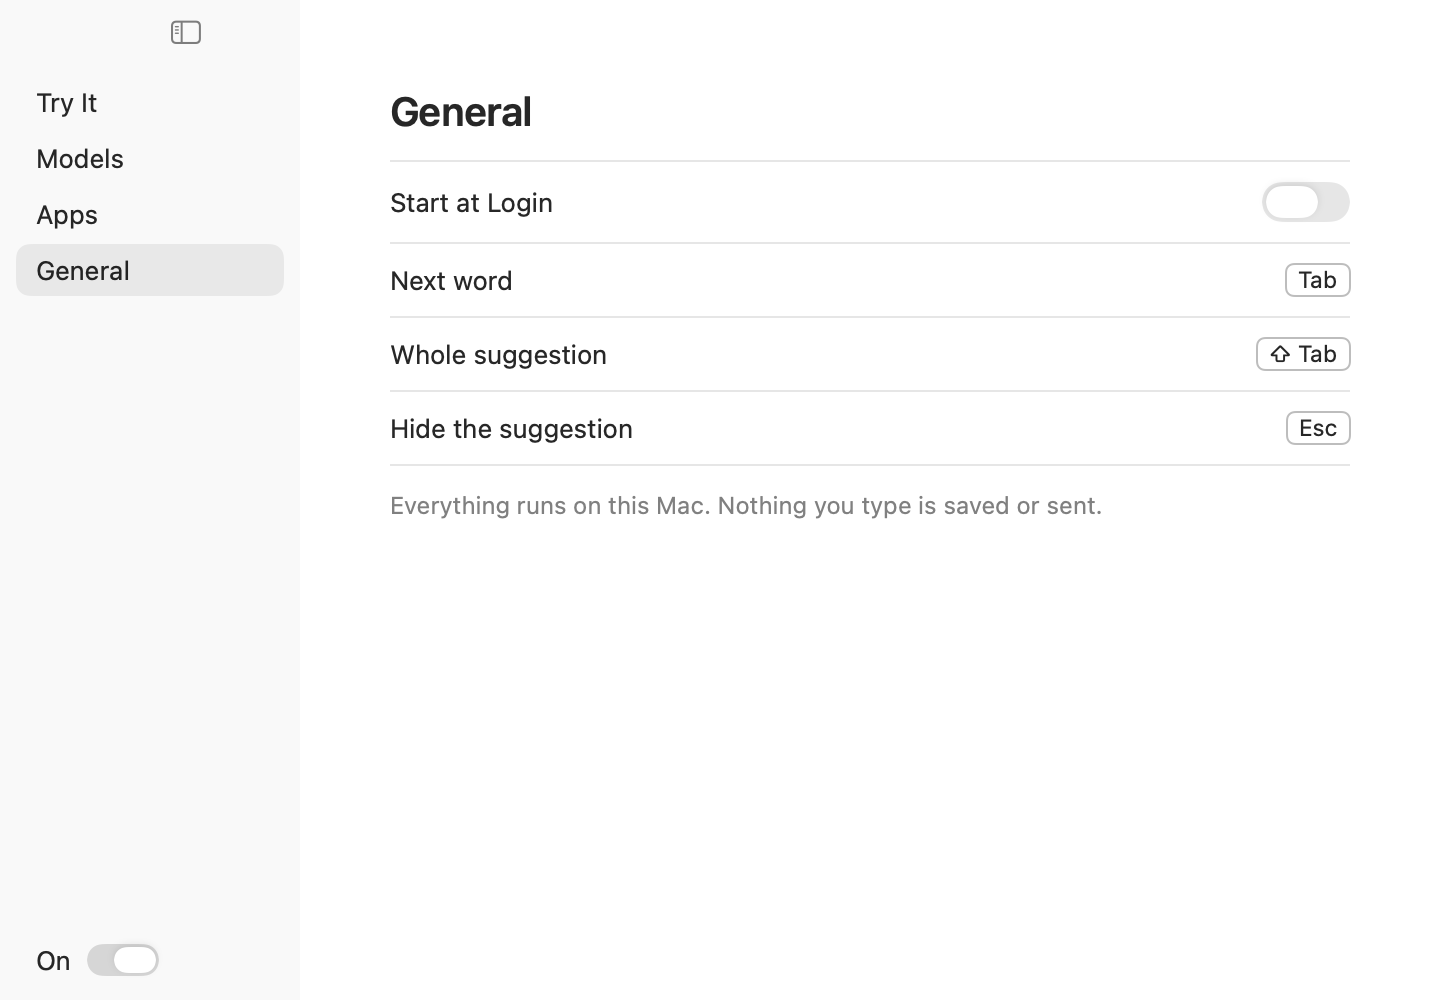
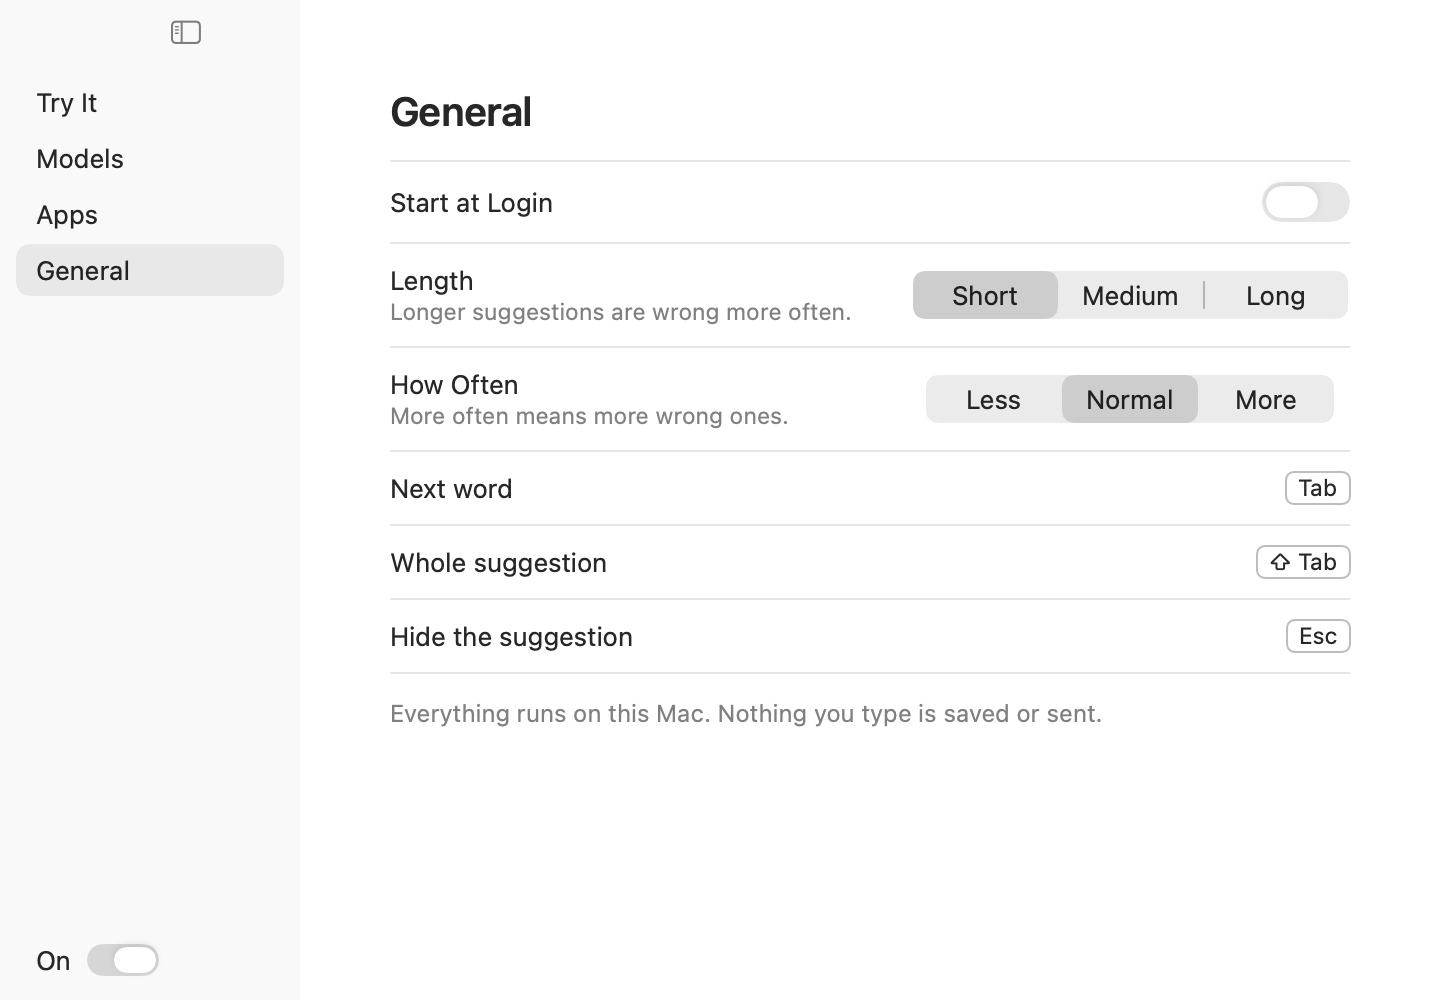
Settings: Length and How Often
Two pickers under General move Stop.cut's floor (-1, -2, -3) and the gate threshold (-0.3, -0.7, -1.2).
Defaults are the fitted values. A change clears any suggestion asked for or shown under the old one
(Codex review). Replay trade-offs in docs/measuring.md.

diff --git a/Sources/ItdaApp/App.swift b/Sources/ItdaApp/App.swift
@@ -1,5 +1,6 @@
 import AppKit
 import Carbon
+import ItdaCore
 import ItdaEngine
 import Sparkle
 
@@ -57,6 +58,16 @@ final class App: NSObject, NSApplicationDelegate, NSMenuDelegate, NSWindowDelega
             rebind()
         }
     }
+    @Published var length = Length(rawValue: UserDefaults.standard.string(forKey: "length") ?? "") ?? .short {
+        didSet { UserDefaults.standard.set(length.rawValue, forKey: "length"); tune() }
+    }
+    @Published var often = Often(rawValue: UserDefaults.standard.string(forKey: "often") ?? "") ?? .normal {
+        didSet { UserDefaults.standard.set(often.rawValue, forKey: "often"); tune() }
+    }
+    func tune() {
+        Tuning.current.withLock { $0 = Tuning(floor: length.floor, threshold: often.threshold) }
+        watcher.retune()
+    }
     @Published var pausedApps = Set(UserDefaults.standard.stringArray(forKey: "pausedApps") ?? []) {
         didSet {
             UserDefaults.standard.set(Array(pausedApps), forKey: "pausedApps")
@@ -86,6 +97,7 @@ final class App: NSObject, NSApplicationDelegate, NSMenuDelegate, NSWindowDelega
     var activeName: String { activePath.map(name) ?? "No Model" }
 
     func applicationDidFinishLaunching(_ note: Notification) {
+        tune()
         // The symbol is for a binary run outside the bundle, as the e2e checks do.
         let glyph = Bundle.main.image(forResource: "MenuBarTemplate") ?? NSImage(systemSymbolName: "text.cursor", accessibilityDescription: "Itda")
         glyph?.isTemplate = true
@@ -291,3 +303,16 @@ final class App: NSObject, NSApplicationDelegate, NSMenuDelegate, NSWindowDelega
     }
 
 }
+
+/// Replayed on English test threads with Qwen 3.5 0.8B (docs/measuring.md): grey characters right 77%, 61%, 50%.
+enum Length: String, CaseIterable {
+    case short, medium, long
+    var floor: Double { switch self { case .short: Stop.floor; case .medium: -2; case .long: -3 } }
+}
+
+/// The same replay: suggestions shown on 12%, 20% and 31% of requests, with the first word right 89%, 75% and 58% of the time.
+enum Often: String, CaseIterable {
+    case less, normal, more
+    var threshold: Double { switch self { case .less: -0.3; case .normal: Gate.threshold; case .more: -1.2 } }
+}
+

diff --git a/Sources/ItdaCore/Generation.swift b/Sources/ItdaCore/Generation.swift
@@ -1,3 +1,5 @@
+import Synchronization
+
 /// One decoded token as the engine reports it.
 public struct Token: Equatable, Sendable {
     public var bytes: [UInt8]
@@ -65,7 +67,7 @@ public enum Stop {
     /// The suggestion so far, and whether to stop generating. It ends before a newline, after the first terminal
     /// punctuation, at `maxTokens`, at a special token, or before the word that takes it below `floor`. The first word
     /// is the gate's to judge. Text with no word in it is no suggestion.
-    public static func cut(_ tokens: [Token], fragment: String) -> (text: String, done: Bool) {
+    public static func cut(_ tokens: [Token], fragment: String, floor: Double = Stop.floor) -> (text: String, done: Bool) {
         guard let free = tokens.continuation(after: fragment), let text = decode(Array(free.prefix(maxTokens))) else {
             return ("", true)
         }
@@ -96,6 +98,17 @@ public enum Stop {
     private static func endsClause(_ c: Character) -> Bool {
         c == "~" || c == "…" || c.unicodeScalars.first?.properties.isTerminalPunctuation == true
     }
+}
+
+/// The window's Length and How Often: a floor for `Stop.cut` and a threshold for the gate. Read once per request.
+/// The defaults are the fitted values; the others trade right grey text for more of it (docs/measuring.md).
+public struct Tuning: Sendable, Equatable {
+    public var floor: Double
+    public var threshold: Double
+    public init(floor: Double = Stop.floor, threshold: Double = Gate.threshold) {
+        (self.floor, self.threshold) = (floor, threshold)
+    }
+    public static let current = Mutex(Tuning())
 }
 
 public enum Gate {

diff --git a/Sources/ItdaEngine/Engine.swift b/Sources/ItdaEngine/Engine.swift
@@ -123,6 +123,7 @@ public final class Engine: @unchecked Sendable {
         if prompt.count > room { prompt.removeFirst(prompt.count - room) }
         guard !prompt.isEmpty, prefill(prompt, ctx, id) else { return isStale(id) ? () : onResult(nil) }
 
+        let tuning = Tuning.current.withLock { $0 }
         var need = Constraint(fragment: fragment, composing: composing)
         var suggestion = Suggestion(text: "", gate: nil)
         var shown = ""
@@ -133,12 +134,12 @@ public final class Engine: @unchecked Sendable {
             need.consume(piece)
             suggestion.tokens.append(Token(bytes: Array(piece), logprob: pick.logprob, special: pick.isEnd))
 
-            let cut = Stop.cut(suggestion.tokens, fragment: fragment)
+            let cut = Stop.cut(suggestion.tokens, fragment: fragment, floor: tuning.floor)
             let finished = cut.done || (!cut.text.isEmpty && Word.firstEnd(cut.text) != cut.text.endIndex)
             suggestion.text = cut.text
             suggestion.gate = finished ? Gate.firstWord(suggestion.tokens, fragment: fragment) : nil
             guard !isStale(id) else { return }
-            if cut.done || suggestion.gate.map({ $0 < Gate.threshold }) == true { return onResult(cut.text.isEmpty ? nil : suggestion) }
+            if cut.done || suggestion.gate.map({ $0 < tuning.threshold }) == true { return onResult(cut.text.isEmpty ? nil : suggestion) }
             if cut.text != shown { onResult(suggestion); shown = cut.text }
 
             var next = pick.token

diff --git a/Sources/ItdaApp/Window.swift b/Sources/ItdaApp/Window.swift
@@ -325,6 +325,14 @@ private struct GeneralPage: View {
                     Toggle("", isOn: $app.updatesAutomatically).toggleStyle(.switch).controlSize(.small).tint(.primary).labelsHidden()
                 }
             }
+            Row(title: "Length", note: "Longer suggestions are wrong more often.") {
+                Picker("", selection: $app.length) { Text("Short").tag(Length.short); Text("Medium").tag(Length.medium); Text("Long").tag(Length.long) }
+                    .pickerStyle(.segmented).labelsHidden().frame(width: 220)
+            }
+            Row(title: "How Often", note: "More often means more wrong ones.") {
+                Picker("", selection: $app.often) { Text("Less").tag(Often.less); Text("Normal").tag(Often.normal); Text("More").tag(Often.more) }
+                    .pickerStyle(.segmented).labelsHidden().frame(width: 220)
+            }
             Row(title: "Next word") { key("Tab") }
             Row(title: "Whole suggestion") { key("⇧ Tab") }
             Row(title: "Hide the suggestion") { key("Esc") }

diff --git a/Sources/ItdaApp/Watcher.swift b/Sources/ItdaApp/Watcher.swift
@@ -252,7 +252,7 @@ final class Watcher: @unchecked Sendable {
     }
 
     private func received(id: Int, anchor: String, text: String, gate: Double?) {
-        guard id == request, let gate, gate >= Gate.threshold, let last else { return }
+        guard id == request, let gate, gate >= Tuning.current.withLock({ $0.threshold }), let last else { return }
         suggestion = (anchor, text)
         // A field that has already moved on brings its own update.
         let field = settled(last.field)
@@ -280,6 +280,9 @@ final class Watcher: @unchecked Sendable {
             if tap.arm(armed, generation: generation) { showScrollWatch() } else { hideDisarmed() }
         }
     }
+
+    /// A setting changed: nothing asked for or kept under the old one may show.
+    func retune() { queue.async { [self] in clearSuggestion() } }
 
     private func clearSuggestion() {
         suggestion = nil

diff --git a/Tests/ItdaCoreTests/GenerationTests.swift b/Tests/ItdaCoreTests/GenerationTests.swift
@@ -108,6 +108,13 @@ func stop(c: StopCase) {
     #expect(cut.done)
 }
 
+@Test func aLowerFloorKeepsLessLikelyWords() {
+    let tokens = [token(" take", -0.2), token(" a", -0.1), token(" look", -0.3), token(" around", -0.5), token(" here", -0.1)]
+    #expect(Stop.cut(tokens, fragment: "", floor: -2).text == " take a look around here")
+    #expect(Stop.cut(tokens, fragment: "", floor: -1.15).text == " take a look around")
+    #expect(Tuning() == Tuning(floor: Stop.floor, threshold: Gate.threshold))
+}
+
 @Test func theFirstWordIsTheGatesToJudge() {
     #expect(Stop.cut([token(" maybe", -3)], fragment: "").text == " maybe")
     #expect(Stop.cut([token(" maybe", -3), token(" so", -0.1)], fragment: "").text == " maybe")

diff --git a/docs/measuring.md b/docs/measuring.md
@@ -115,3 +115,18 @@ November 2026, the same replay (`itda-replay` at tag `bench-1`, threshold -0.7) 
 - Qwen 3.5 0.8B ties Qwen 3.5 2B on English within the CI, at 41% of the size and with the quickest first word, so it's the default. What it gives up is Korean: own messages 0.60 against 0.88 keys per request (CI -0.52 to -0.10).
 - Qwen 3.5 0.8B against Kanana 1.5, the old default, in full: English test 922 of 1,131 shown right (81.5%), coverage 47.1%. Whole messages: English 21.6% against 22.1% (800 keys), Korean public 4.8% against 8.8% (1,200 keys), Korean own 10.8% against 13.4% (1,800 keys). Korean public suggestions on Hangul right when shown: 20.9% against 33.7%. First displayable word p50: 53, 97 and 102 ms against 60, 102 and 114 ms. No model call on 47%, 20% and 26% of keys against 48%, 27% and 28%.
 - Not tried: models of 3.5 GB or more, community fine-tunes, and Ternary Bonsai's smaller packings, which need a fork of llama.cpp. Gemma 4's tokenizer fix of 3 November 2026 changed no weights and came after these files.
+
+## Length and How Often
+
+The window's two settings move the two numbers above: Length the floor that ends a suggestion (-1, -2, -3), How Often the gate's threshold (-0.3, -0.7, -1.2). Defaults are Short and Normal, the fitted values. Offline replay, Qwen 3.5 0.8B, English test threads, 2,400 requests, Tab one word, the first word at least 3 keys (`reviews/audit-2026-11/quality-aggregates/length_freq.py` in the bench repo):
+
+| Setting | Shown, of requests | First word right | Wrong and shown, per request | Grey characters per ghost | Grey characters right | Characters saved per request |
+|---|---|---|---|---|---|---|
+| Short, Normal | 20.0% | 75.2% | 5.0% | 5.2 | 76.7% | 0.552 |
+| Medium, Normal | 20.0% | 75.2% | 5.0% | 7.1 | 61.4% | 0.580 |
+| Long, Normal | 20.0% | 75.2% | 5.0% | 9.2 | 49.8% | 0.585 |
+| Short, Less | 12.0% | 89.2% | 1.3% | 5.3 | 85.2% | 0.395 |
+| Short, More | 30.6% | 58.2% | 12.8% | 4.9 | 63.7% | 0.642 |
+
+Longer adds little, as Tab takes one word and more of the extra words are wrong. No floor at all gives 17 characters, 27% right, for the same savings as Long. Suggestions stop at 8 tokens whatever the setting. Not measured in timed replay or on Korean.
+

diff --git a/README.md b/README.md
@@ -43,7 +43,7 @@ Most tools in this category go quiet while you compose Hangul, or suggest from a
 
 **It won't guess at the half-typed word.** The prompt stops at the last whole word and the model has to reproduce what you've typed so far. Across 130 paired mid-word English positions on a Gemma model, a useful suggestion went from 7.7% to 50.8%. The shipped mask on the default model wasn't compared this way.
 
-**It stays quiet when the model isn't sure.** Itda shows a suggestion only if the first word's probability, among words that fit what you've typed, clears one threshold. On 2,400 held-out English requests with the default model, the first word shown was right 81.5% of the time (922 of 1,131), at 47.1% coverage. With no gate, 50-53% were right. It also ends a suggestion before the first word it's unsure of, and doesn't show one that would save under three keystrokes. In the same replay on Kanana 1.5, that took the grey characters that were right from 19% to 75%.
+**It stays quiet when the model isn't sure.** Itda shows a suggestion only if the first word's probability, among words that fit what you've typed, clears one threshold. On 2,400 held-out English requests with the default model, the first word shown was right 81.5% of the time (922 of 1,131), at 47.1% coverage. With no gate, 50-53% were right. It also ends a suggestion before the first word it's unsure of, and doesn't show one that would save under three keystrokes. In the same replay on Kanana 1.5, that took the grey characters that were right from 19% to 75%. Both are settings under General, Length and How Often, and these numbers are for the defaults.
 
 **It finishes Korean with real key presses.** The syllable you're composing stays out of the prompt, the model's output must fit its 2-set keys (so `하` allows `한` or `함`), and Tab presses the remaining keys so the input method finishes the syllable itself. On 1,099 requests mid-syllable in public Korean text, keystrokes saved per request went from 0 when sending the syllable to the model to 0.69. It costs more wrong suggestions: 18.2% of those requests, against 8.4%.
 
